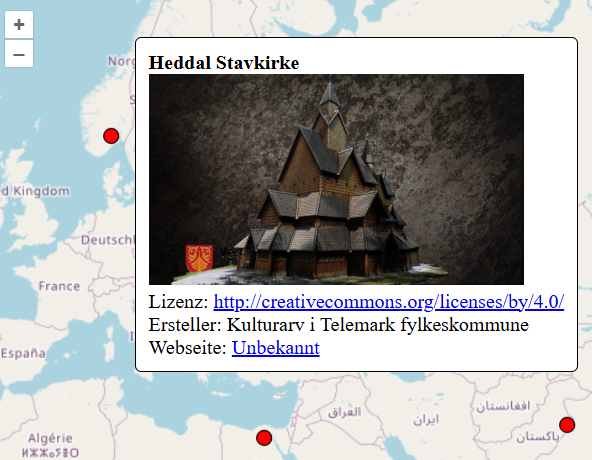
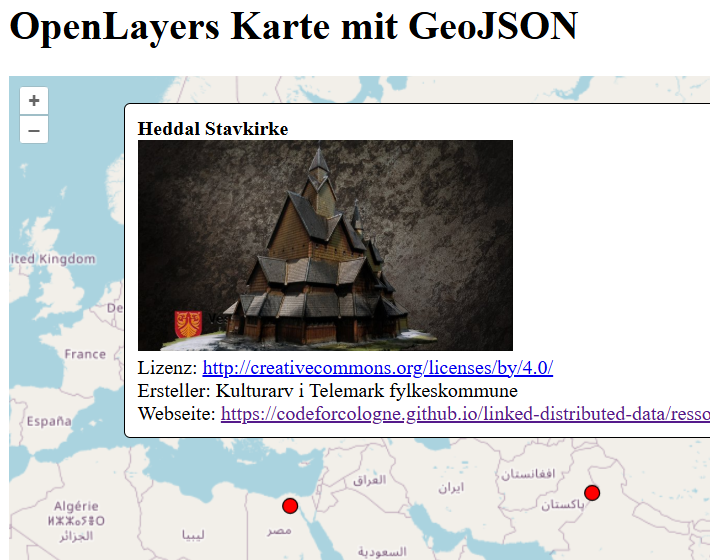
readme

diff --git a/index.html b/index.html
@@ -6,7 +6,6 @@
     <meta name="author" content="OK Lab Köln" />
     <meta name="viewport" content="width=device-width, initial-scale=1.0">
     <meta name="description" content="Verteilte Daten vernetzen mit JSON-LD, OK Lab Köln">
-    <meta name="robots" content="noindex">
     <link rel="stylesheet" href="style.css">
     <style>
 

diff --git a/README.md b/README.md
@@ -1,1 +1,14 @@
-in Arbeit
+# Verteilte Daten vernetzen mit JSON-LD
+
+Die Idee zu diesem Prototyp ist es, Daten dezentral auf Servern zu speichern und diese via JSON-LD zu vernetzen. 
+
+WebCrawler können die Daten dann indexieren und für spezielle Anwendungen aufbereieten, z.B. für Webkarten (s.u.).
+
+Damit dies funktioniert, braucht es einen zentralen Einstiegspunkt, der die Links zu den dezentralen Repositorys enthält:
+[index.html](https://codeforcologne.github.io/linked-distributed-data/)
+
+Alles weitere erfährst Du auf den folgenden Webseiten.
+
+![Screenshot der OL Karte](images/screenshot-ol.png)
+
+Screenshot OpenLayers Karte
